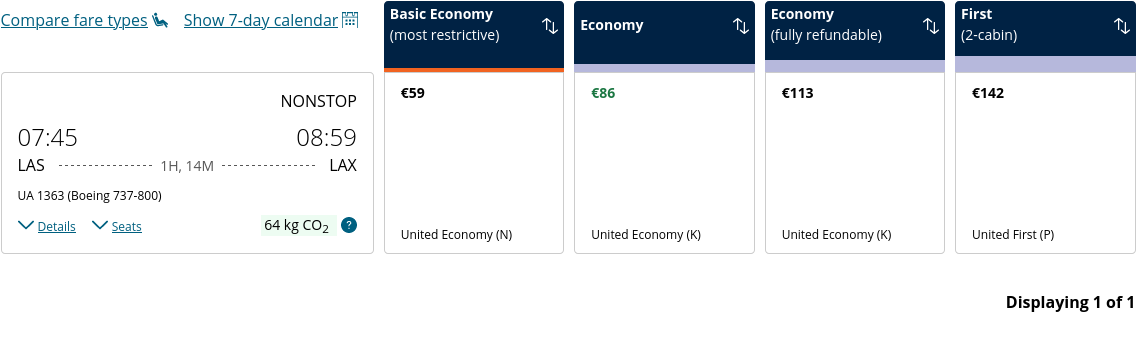
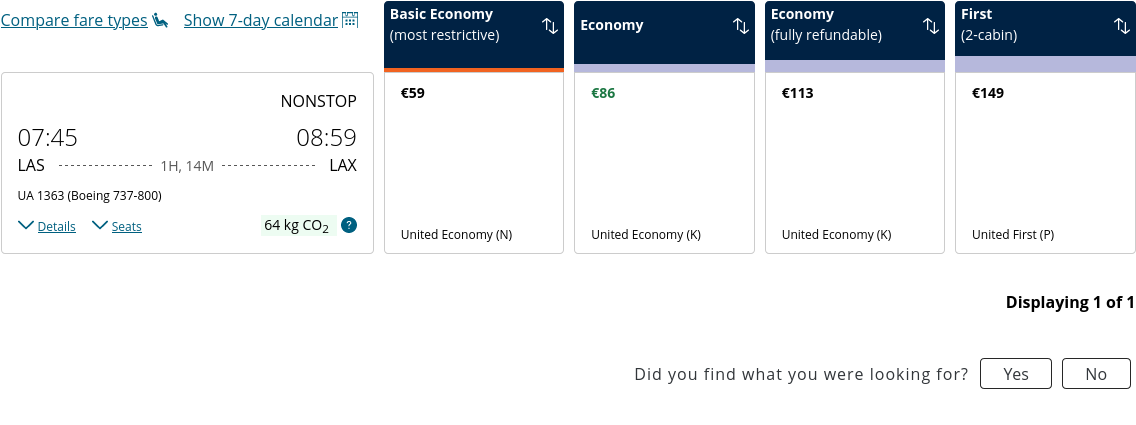
Latest scraping states: Tue Aug  1 22:52:07 UTC 2023

diff --git a/scrapes/states/united-01-05.md b/scrapes/states/united-01-05.md
@@ -78,4 +78,8 @@ Select fare for Economy
 
 Displaying 1 of 1
 
+Did you find what you were looking for?
+
+YesNo
+
 ![](united-01-05.png)
